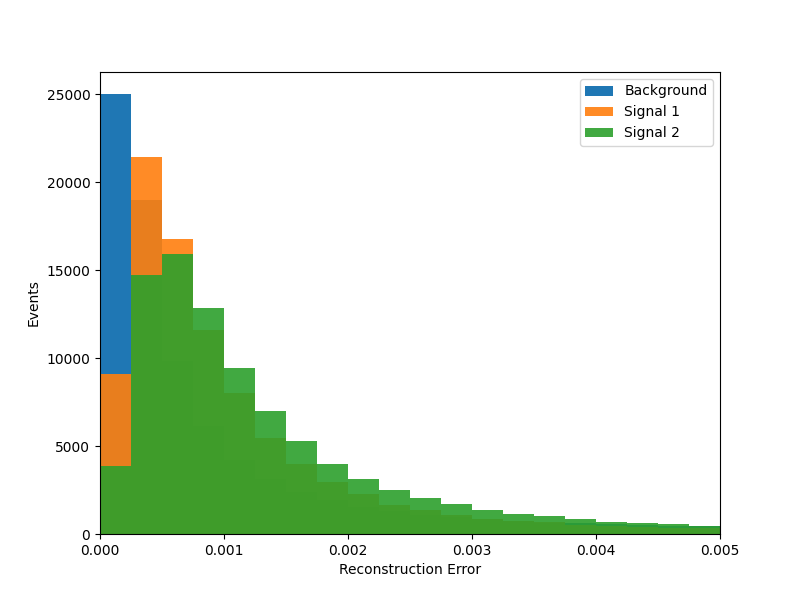
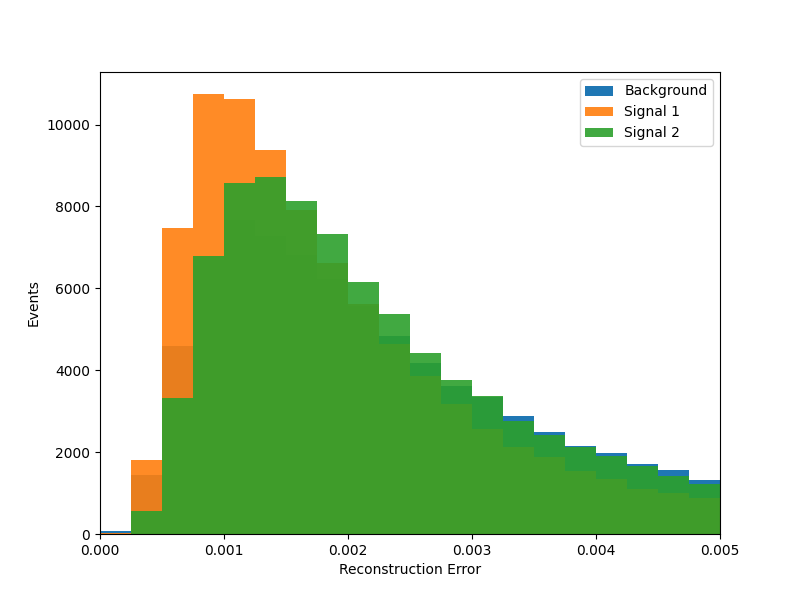
Testing with minmax scaling and 21, 14 layer dimensions

Changed region(s): [[0.0625, 0.15, 0.9062, 0.9]]

diff --git a/test.py b/test.py
@@ -71,9 +71,9 @@ if scale == "minmax":
 elif scale == "standard":
     scaler = StandardScaler()
 
-bkg_scaled = pd.DataFrame(scaler.fit_transform(bkg[selection].sample(frac=1)), columns=selection).mul(weights_bkg, axis = 0)
-sig1_scaled = pd.DataFrame(scaler.transform(sig1[selection].sample(frac=1)), columns=selection).mul(weights_sig1, axis = 0)
-sig2_scaled = pd.DataFrame(scaler.transform(sig2[selection].sample(frac=1)), columns=selection).mul(weights_sig2, axis = 0)
+bkg_scaled = pd.DataFrame(scaler.fit_transform(bkg[selection].sample(frac=1)), columns=selection)
+sig1_scaled = pd.DataFrame(scaler.transform(sig1[selection].sample(frac=1)), columns=selection)
+sig2_scaled = pd.DataFrame(scaler.transform(sig2[selection].sample(frac=1)), columns=selection)
 train_bkg = bkg_scaled[(sig1_scaled.shape[0]):]
 test_bkg = bkg_scaled[:(sig2_scaled.shape[0])]
 
@@ -81,6 +81,7 @@ train_bkg = torch.from_numpy(train_bkg.values).float()
 test_bkg = torch.from_numpy(test_bkg.values).float()
 test_sig1 = torch.from_numpy(sig1_scaled.values).float()
 test_sig2 = torch.from_numpy(sig2_scaled.values).float()
+weights_bkg = torch.from_numpy(weights_bkg).float()
 
 #######################################################################################################
 ########################################## Testing Analysis ############################################
@@ -202,3 +203,20 @@ axes.set_ylabel("Events")
 axes.set_xlim(2700, 5000)
 axes.legend()
 fig.savefig(f"figs/testing/mass_dist_{scale}_{mid_dim}_{latent_dim}.png")
+
+############################################ Normalised Mass Distribution  ##############################################
+
+normalised_mass_bkg = bkg.mj1j2.mul(weights_bkg.numpy(), axis = 0)
+normalised_mass_sig1 = sig1.mj1j2.mul(weights_sig1, axis = 0)
+normalised_mass_sig2 = sig2.mj1j2.mul(weights_sig2, axis = 0)
+
+nbins = 30
+fig, axes = plt.subplots(figsize=(8,6))
+axes.hist([normalised_mass_bkg], nbins, density=1, histtype='step', label=['Bkg'], stacked=True, alpha=1)
+axes.hist([normalised_mass_sig1], nbins, density=1, histtype='step', label=['Signal 1'], stacked=True, alpha=0.8)
+axes.hist([normalised_mass_sig2], nbins, density=1, histtype='step', label=['Signal 2'], stacked=True, alpha=0.6)
+axes.set_xlabel(r"$m_{jet_1•jet_2}$ [GeV]")
+axes.set_ylabel("Events")
+# axes.set_xlim(2700, 5000)
+axes.legend()
+fig.savefig(f"figs/testing/normalised_mass_dist_{scale}_{mid_dim}_{latent_dim}.png")

diff --git a/train.py b/train.py
@@ -62,8 +62,8 @@ weights[weights == 0.0] = 1.0
 weights = np.append(weights, weights[-1])
 weights *= 1000.0 # To avoid very small weights
 weights_bkg = weights[np.searchsorted(Hb, mjj_bkg)]
-weights_sig1 = weights[np.searchsorted(Hb, mjj_sig1)]
-weights_sig2 = weights[np.searchsorted(Hb, mjj_sig2)]
+# weights_sig1 = weights[np.searchsorted(Hb, mjj_sig1)]
+# weights_sig2 = weights[np.searchsorted(Hb, mjj_sig2)]
 
 #######################################################################################################
 ######################################## Data Preprocessing ###########################################
@@ -73,9 +73,9 @@ if scale == "minmax":
 elif scale == "standard":
     scaler = StandardScaler()
 
-bkg_scaled = pd.DataFrame(scaler.fit_transform(bkg[selection].sample(frac=1)), columns=selection).mul(weights_bkg, axis = 0)
-sig1_scaled = pd.DataFrame(scaler.transform(sig1[selection].sample(frac=1)), columns=selection).mul(weights_sig1, axis = 0)
-sig2_scaled = pd.DataFrame(scaler.transform(sig2[selection].sample(frac=1)), columns=selection).mul(weights_sig2, axis = 0)
+bkg_scaled = pd.DataFrame(scaler.fit_transform(bkg[selection].sample(frac=1)), columns=selection)
+sig1_scaled = pd.DataFrame(scaler.transform(sig1[selection].sample(frac=1)), columns=selection)
+sig2_scaled = pd.DataFrame(scaler.transform(sig2[selection].sample(frac=1)), columns=selection)
 train_bkg = bkg_scaled[(sig1_scaled.shape[0]):]
 test_bkg = bkg_scaled[:(sig2_scaled.shape[0])]
 
@@ -83,8 +83,9 @@ train_bkg = torch.from_numpy(train_bkg.values).float()
 test_bkg = torch.from_numpy(test_bkg.values).float()
 test_sig1 = torch.from_numpy(sig1_scaled.values).float()
 test_sig2 = torch.from_numpy(sig2_scaled.values).float()
+weights_bkg = torch.from_numpy(weights_bkg).float()
 
-trainSet = TensorDataset(train_bkg, train_bkg)
+trainSet = TensorDataset(train_bkg, train_bkg, weights_bkg[(sig1_scaled.shape[0]):, :])
 testSet_bkg = TensorDataset(test_bkg, test_bkg)
 testSet_sig1 = TensorDataset(test_sig1, test_sig1)
 testSet_sig2 = TensorDataset(test_sig2, test_sig2)

diff --git a/hist.py b/hist.py
@@ -50,19 +50,6 @@ mjj_sig1 = sig1[mass].values
 mjj_sig2 = sig2[mass].values
 
 #######################################################################################################
-############################################# Reweighting #############################################
-
-Hc,Hb = np.histogram(mjj_bkg,bins=500)
-weights = np.array(Hc,dtype=float)
-weights[weights > 0.0] = 1.0 / weights[weights > 0.0]
-weights[weights == 0.0] = 1.0
-weights = np.append(weights, weights[-1])
-weights *= 1000.0 # To avoid very small weights
-weights_bkg = weights[np.searchsorted(Hb, mjj_bkg)]
-weights_sig1 = weights[np.searchsorted(Hb, mjj_sig1)]
-weights_sig2 = weights[np.searchsorted(Hb, mjj_sig2)]
-
-#######################################################################################################
 ######################################## Data Preprocessing ###########################################
 
 if scale == "minmax":
@@ -70,9 +57,9 @@ if scale == "minmax":
 elif scale == "standard":
     scaler = StandardScaler()
 
-bkg_scaled = pd.DataFrame(scaler.fit_transform(bkg[selection].sample(frac=1)), columns=selection).mul(weights_bkg, axis = 0)
-sig1_scaled = pd.DataFrame(scaler.transform(sig1[selection].sample(frac=1)), columns=selection).mul(weights_sig1, axis = 0)
-sig2_scaled = pd.DataFrame(scaler.transform(sig2[selection].sample(frac=1)), columns=selection).mul(weights_sig2, axis = 0)
+bkg_scaled = pd.DataFrame(scaler.fit_transform(bkg[selection].sample(frac=1)), columns=selection)
+sig1_scaled = pd.DataFrame(scaler.transform(sig1[selection].sample(frac=1)), columns=selection)
+sig2_scaled = pd.DataFrame(scaler.transform(sig2[selection].sample(frac=1)), columns=selection)
 train_bkg = bkg_scaled[(sig1_scaled.shape[0]):]
 test_bkg = bkg_scaled[:(sig2_scaled.shape[0])]
 
